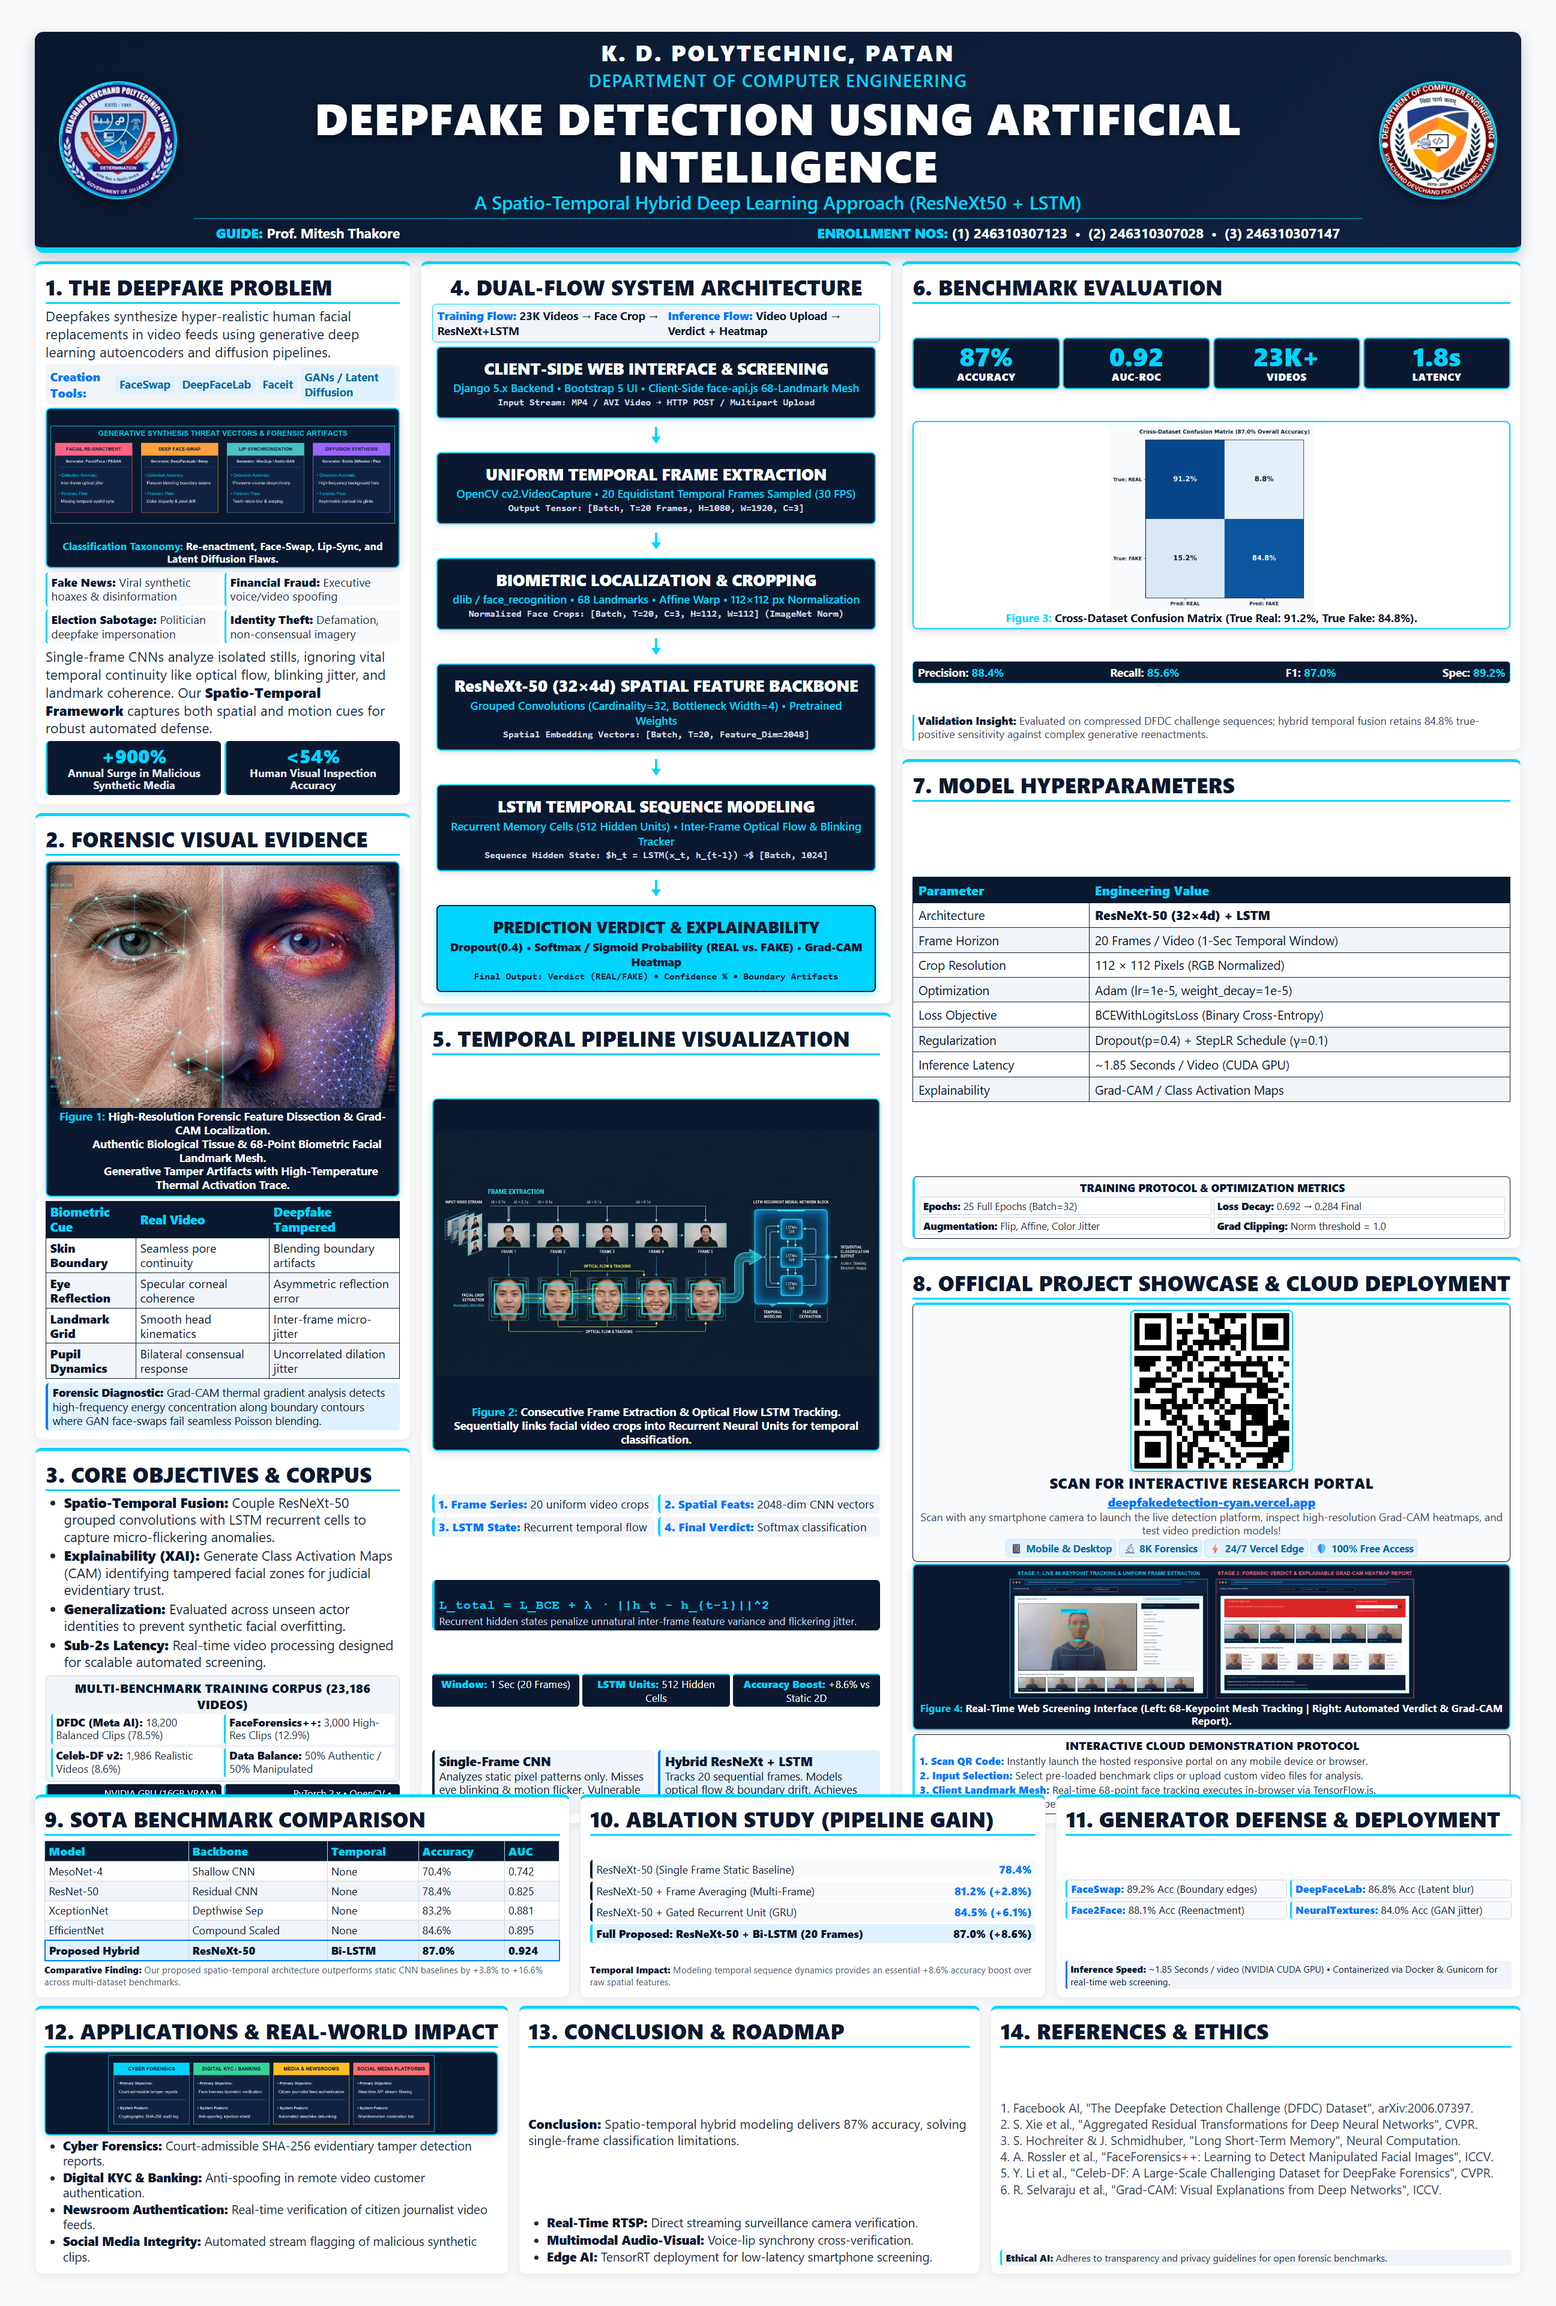
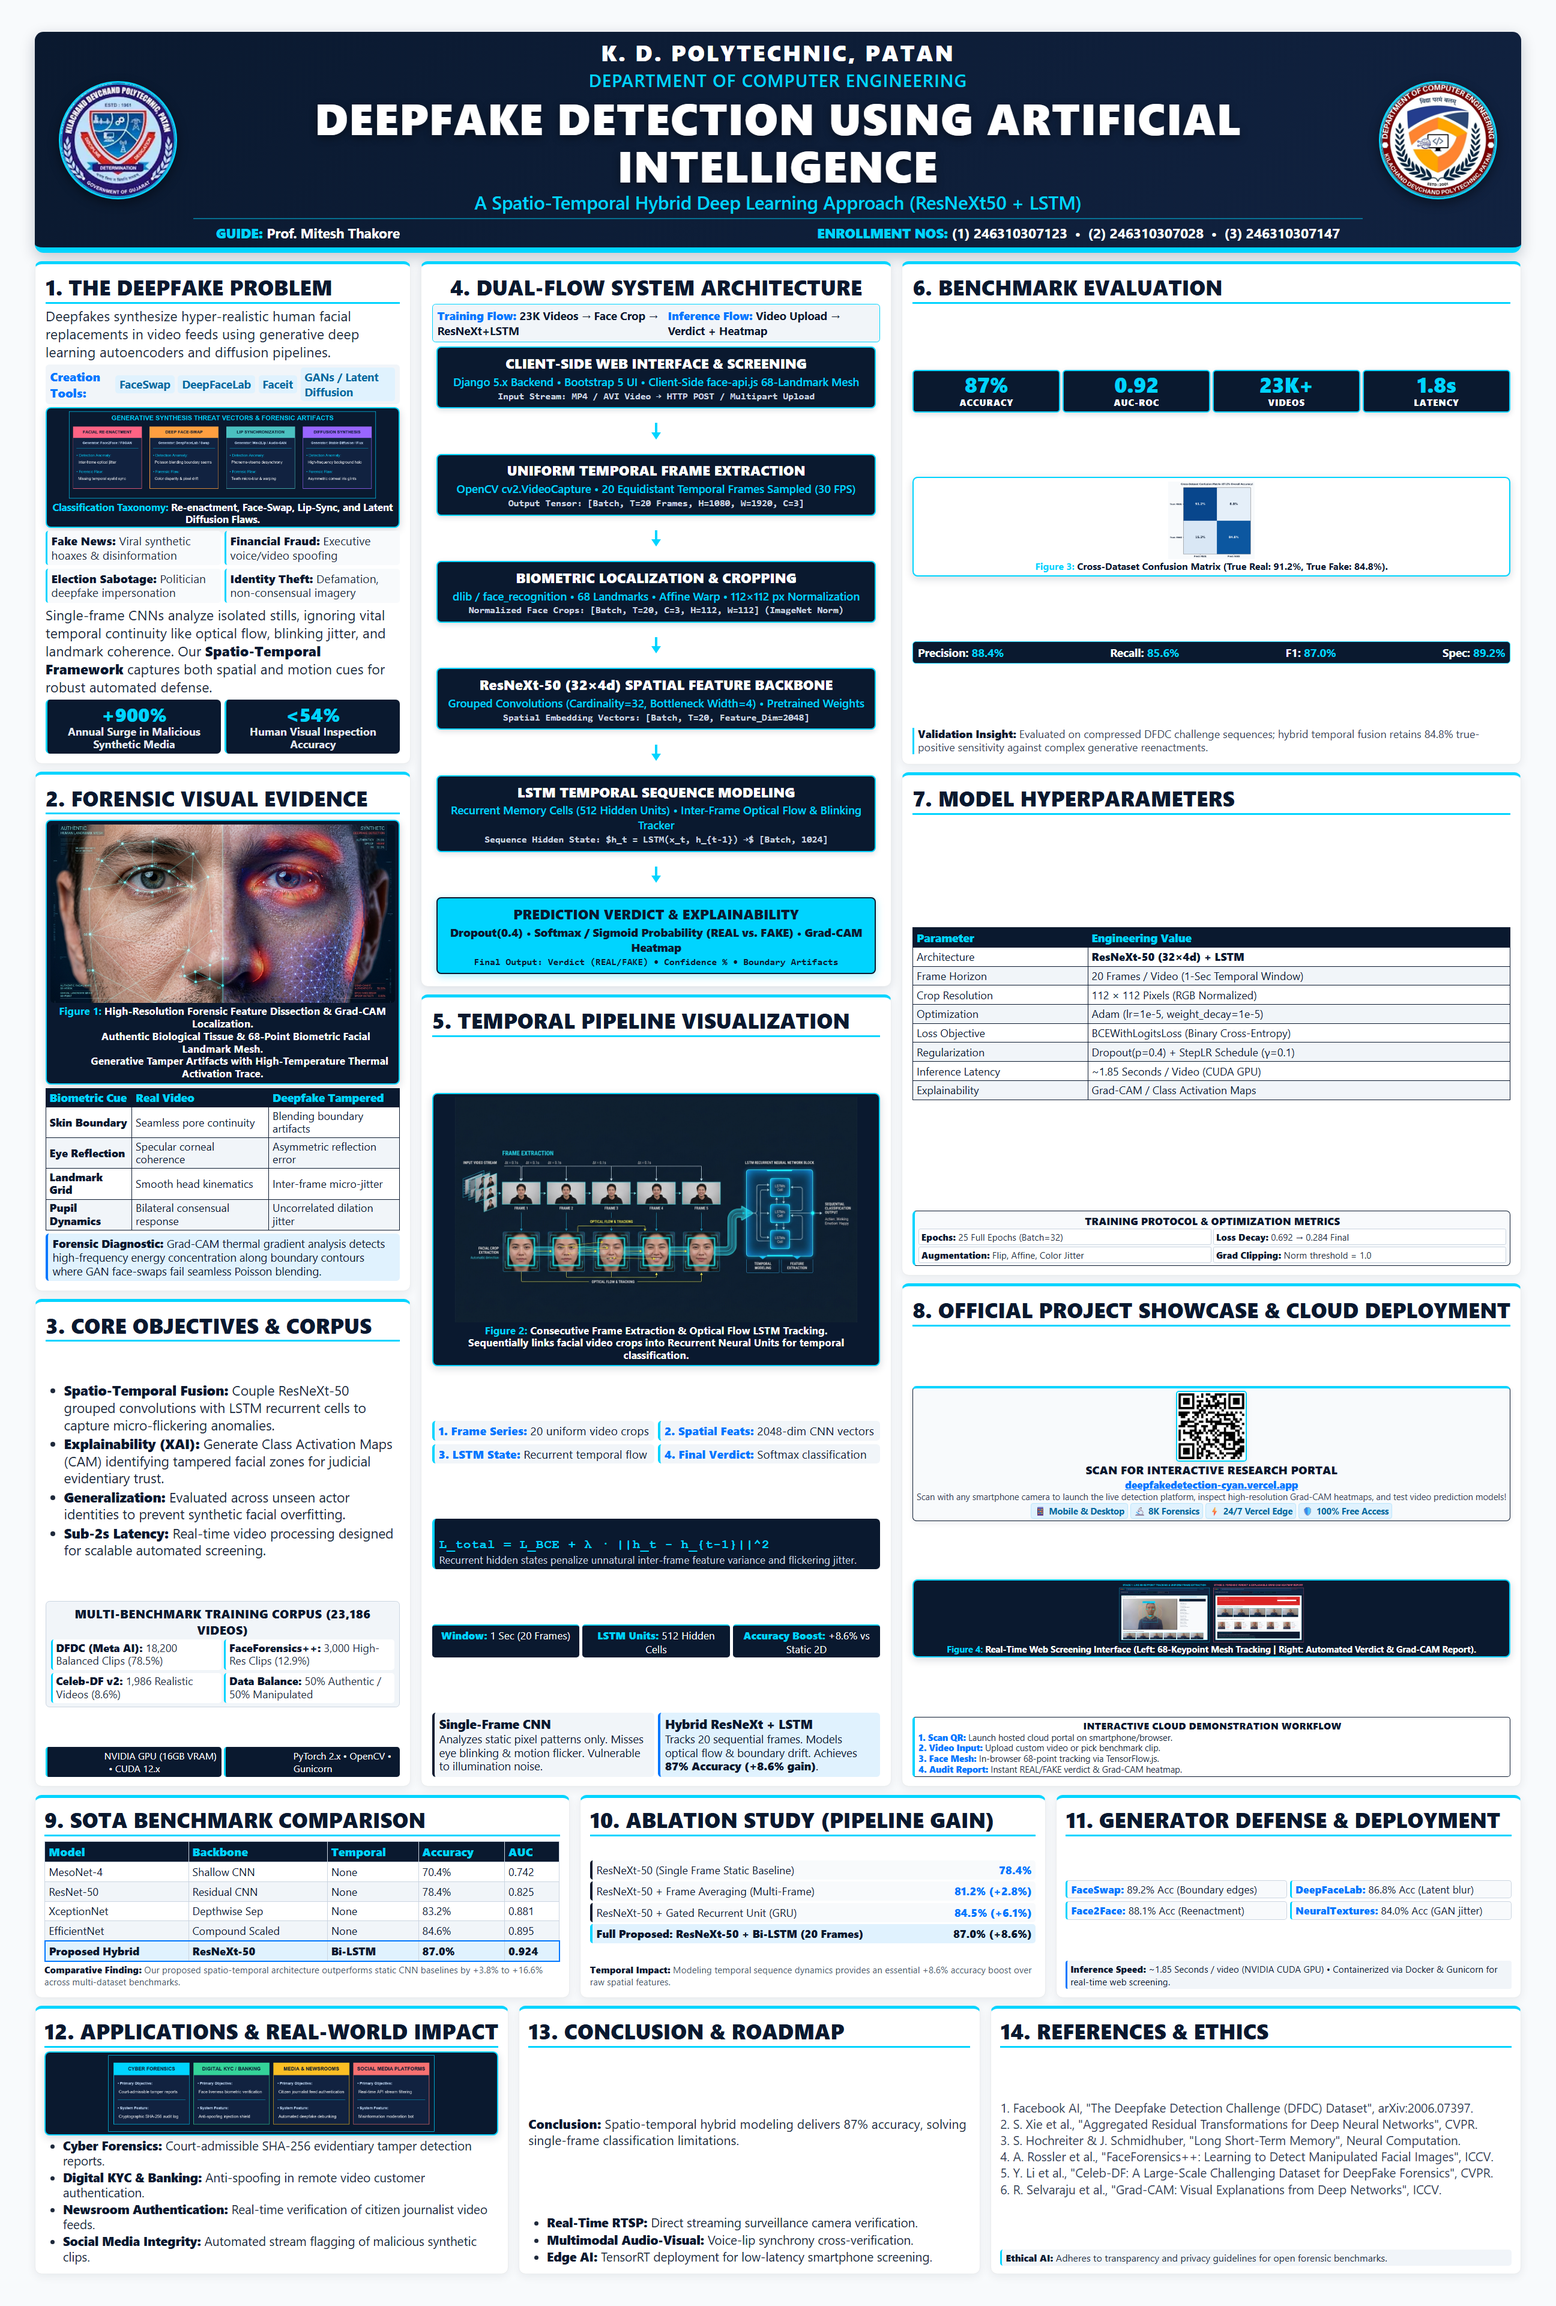
fix: resolve vertical overflow and text overlap in poster Column 3

Changed region(s): [[0.0312, 0.125, 0.9688, 0.8438], [0.6875, 0.8125, 0.8125, 0.8438], [0.875, 0.8125, 0.9375, 0.8438]]

diff --git a/POSTER_27x40_WINNING.html b/POSTER_27x40_WINNING.html
@@ -325,7 +325,7 @@
 
         .fig-img-split {
             width: 100%;
-            height: 4.2in;
+            height: 3.1in;
             object-fit: cover;
             border-radius: 0.06in;
             display: block;
@@ -334,7 +334,7 @@
 
         .fig-img-pipeline {
             width: 100%;
-            height: 5.2in;
+            height: 3.9in;
             object-fit: contain;
             background: #0a192f;
             border-radius: 0.06in;
@@ -343,11 +343,11 @@
         }
 
         .fig-caption {
-            font-size: 14pt;
+            font-size: 13pt;
             font-weight: 700;
             color: #ffffff;
-            margin-top: 0.04in;
-            line-height: 1.22;
+            margin-top: 0.03in;
+            line-height: 1.20;
         }
 
         .fig-caption span {
@@ -358,22 +358,22 @@
         .matrix-table {
             width: 100%;
             border-collapse: collapse;
-            font-size: 15pt;
-            margin-top: 0.04in;
+            font-size: 13.5pt;
+            margin-top: 0.03in;
         }
 
         .matrix-table th, .matrix-table td {
             border: 1.5px solid #0a192f;
-            padding: 0.05in 0.07in;
+            padding: 0.04in 0.06in;
             text-align: left;
-            line-height: 1.20;
+            line-height: 1.18;
         }
 
         .matrix-table th {
             background-color: #0a192f;
             color: #00d4ff;
             font-weight: 800;
-            font-size: 15.5pt;
+            font-size: 14pt;
         }
 
         .matrix-table tr:nth-child(even) {
@@ -441,9 +441,9 @@
             color: #ffffff;
             border: 2px solid #00d4ff;
             border-radius: 0.08in;
-            padding: 0.16in 0.18in;
+            padding: 0.10in 0.14in;
             text-align: center;
-            font-size: 20pt;
+            font-size: 17.5pt;
             font-weight: 800;
             width: 98%;
             box-shadow: 0 3px 10px rgba(10, 25, 47, 0.14);
@@ -609,13 +609,13 @@
         table {
             width: 100%;
             border-collapse: collapse;
-            font-size: 15.5pt;
-            margin: 0.03in 0;
+            font-size: 13.5pt;
+            margin: 0.02in 0;
         }
 
         th, td {
             border: 1.5px solid #0a192f;
-            padding: 0.07in 0.09in;
+            padding: 0.035in 0.06in;
             text-align: left;
         }
 
@@ -623,7 +623,7 @@
             background-color: #0a192f;
             color: #00d4ff;
             font-weight: 800;
-            font-size: 16pt;
+            font-size: 14pt;
         }
 
         tr:nth-child(even) {
@@ -634,29 +634,29 @@
         .stat-container-4 {
             display: grid;
             grid-template-columns: 1fr 1fr 1fr 1fr;
-            gap: 0.05in;
-            margin: 0.03in 0;
+            gap: 0.04in;
+            margin: 0.02in 0;
         }
 
         .stat-box {
             background: #0a192f;
             color: #00d4ff;
             text-align: center;
-            padding: 0.08in 0.04in;
-            border-radius: 0.08in;
+            padding: 0.05in 0.03in;
+            border-radius: 0.06in;
             border: 2px solid #00d4ff;
             box-shadow: 0 3px 10px rgba(10, 25, 47, 0.15);
         }
 
         .stat-number {
-            font-size: 32pt;
+            font-size: 26pt;
             font-weight: 900;
             line-height: 1;
-            margin-bottom: 0.02in;
+            margin-bottom: 0.01in;
         }
 
         .stat-label {
-            font-size: 12.5pt;
+            font-size: 11.5pt;
             font-weight: 800;
             letter-spacing: 0.05em;
             color: #ffffff;
@@ -694,8 +694,8 @@
             background: #f8fafc;
             border: 1.5px solid #0a192f;
             border-top: 4px solid #00d4ff;
-            border-radius: 0.08in;
-            padding: 0.06in 0.08in;
+            border-radius: 0.07in;
+            padding: 0.04in 0.06in;
             text-align: center;
             display: flex;
             flex-direction: column;
@@ -706,22 +706,22 @@
 
         .qr-wrapper {
             background: #ffffff;
-            padding: 0.03in;
+            padding: 0.02in;
             border: 2px solid #00d4ff;
-            border-radius: 0.06in;
+            border-radius: 0.05in;
             box-shadow: 0 3px 8px rgba(0, 0, 0, 0.1);
-            margin-bottom: 0.02in;
+            margin-bottom: 0.01in;
             display: inline-block;
         }
 
         .showcase-qr-img {
-            width: 1.95in;
-            height: 1.95in;
+            width: 1.15in;
+            height: 1.15in;
             display: block;
         }
 
         .showcase-qr-title {
-            font-size: 16pt;
+            font-size: 14pt;
             font-weight: 900;
             color: #0a192f;
             margin-bottom: 0.01in;
@@ -729,7 +729,7 @@
         }
 
         .showcase-qr-url {
-            font-size: 14pt;
+            font-size: 12.5pt;
             font-weight: 800;
             color: #0077ff;
             margin-bottom: 0.01in;
@@ -737,15 +737,15 @@
         }
 
         .showcase-qr-desc {
-            font-size: 12pt;
+            font-size: 11pt;
             color: #334155;
-            line-height: 1.18;
+            line-height: 1.15;
             margin-bottom: 0.02in;
         }
 
         .feature-pills {
             display: flex;
-            gap: 0.05in;
+            gap: 0.04in;
             justify-content: center;
             width: 100%;
         }
@@ -753,10 +753,10 @@
         .pill {
             background: #e0f2fe;
             color: #0369a1;
-            font-size: 12.5pt;
+            font-size: 11pt;
             font-weight: 700;
-            padding: 0.03in 0.06in;
-            border-radius: 0.05in;
+            padding: 0.02in 0.05in;
+            border-radius: 0.04in;
             border: 1px solid #bae6fd;
         }
 
@@ -765,18 +765,18 @@
             background: #ffffff;
             border: 1.5px solid #0a192f;
             border-left: 4px solid #00d4ff;
-            border-radius: 0.06in;
-            padding: 0.05in 0.07in;
+            border-radius: 0.05in;
+            padding: 0.03in 0.06in;
             margin-top: 0.02in;
             width: 100%;
             text-align: left;
         }
 
         .demo-flow-title {
-            font-size: 13pt;
+            font-size: 12pt;
             font-weight: 800;
             color: #0a192f;
-            margin-bottom: 0.02in;
+            margin-bottom: 0.01in;
             text-align: center;
             letter-spacing: 0.02em;
         }
@@ -784,12 +784,12 @@
         .demo-step-list {
             display: flex;
             flex-direction: column;
-            gap: 0.02in;
+            gap: 0.01in;
         }
 
         .demo-step-item {
-            font-size: 11.5pt;
-            line-height: 1.16;
+            font-size: 11pt;
+            line-height: 1.15;
             color: #1e293b;
         }
 
@@ -987,9 +987,9 @@
                     </div>
 
                     <!-- Generative Threat Vectors & Forensics Visual Diagram -->
-                    <div class="fig-box" style="margin: 0.03in 0; padding: 0.04in;">
-                        <img src="fig_threat_vectors_hd.png" alt="Generative Synthesis Threat Vectors" style="width: 100%; height: 2.2in; object-fit: contain; display: block; border-radius: 0.05in;">
-                        <div class="fig-caption" style="font-size: 13pt; margin-top: 0.02in;">
+                    <div class="fig-box" style="margin: 0.02in 0; padding: 0.03in;">
+                        <img src="fig_threat_vectors_hd.png" alt="Generative Synthesis Threat Vectors" style="width: 100%; height: 1.55in; object-fit: contain; display: block; border-radius: 0.05in;">
+                        <div class="fig-caption" style="font-size: 12.5pt; margin-top: 0.02in;">
                             <span>Classification Taxonomy:</span> Re-enactment, Face-Swap, Lip-Sync, and Latent Diffusion Flaws.
                         </div>
                     </div>
@@ -1208,8 +1208,8 @@
                         </div>
                     </div>
                     <div class="fig-box" style="margin: 0.02in 0; background: #ffffff;">
-                        <img src="fig_confusion_matrix.png" alt="Confusion Matrix" style="width: 100%; height: 2.3in; object-fit: contain; display: block; margin: 0 auto;">
-                        <div class="fig-caption" style="color: #0a192f; margin-top: 0.02in;">
+                        <img src="fig_confusion_matrix.png" alt="Confusion Matrix" style="width: 100%; height: 1.35in; object-fit: contain; display: block; margin: 0 auto;">
+                        <div class="fig-caption" style="color: #0a192f; margin-top: 0.02in; font-size: 12pt;">
                             <span>Figure 3:</span> Cross-Dataset Confusion Matrix (True Real: 91.2%, True Fake: 84.8%).
                         </div>
                     </div>
@@ -1287,8 +1287,8 @@
 
                     <!-- Live UI Dual-Stage System Snapshot -->
                     <div class="fig-box" style="margin: 0.02in 0; padding: 0.03in;">
-                        <img src="fig_system_live_demo_hd.png" alt="Live Cloud Screening UI & Forensic Diagnostic Engine" style="width: 100%; height: 1.80in; object-fit: contain; display: block; border-radius: 0.05in;">
-                        <div class="fig-caption" style="font-size: 11.5pt; margin-top: 0.02in;">
+                        <img src="fig_system_live_demo_hd.png" alt="Live Cloud Screening UI & Forensic Diagnostic Engine" style="width: 100%; height: 1.05in; object-fit: contain; display: block; border-radius: 0.04in;">
+                        <div class="fig-caption" style="font-size: 11pt; margin-top: 0.02in;">
                             <span>Figure 4:</span> Real-Time Web Screening Interface (Left: 68-Keypoint Mesh Tracking | Right: Automated Verdict &amp; Grad-CAM Report).
                         </div>
                     </div>
